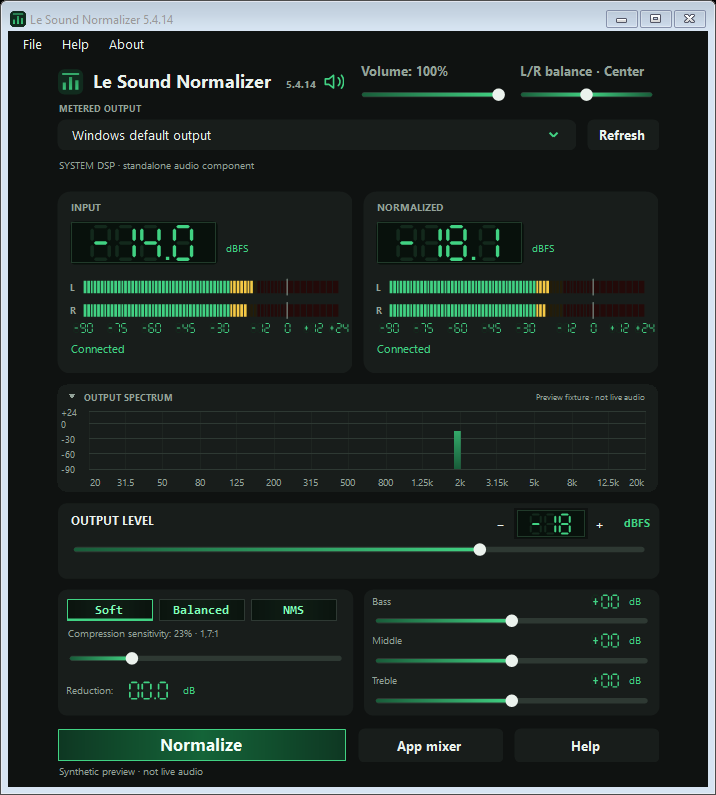
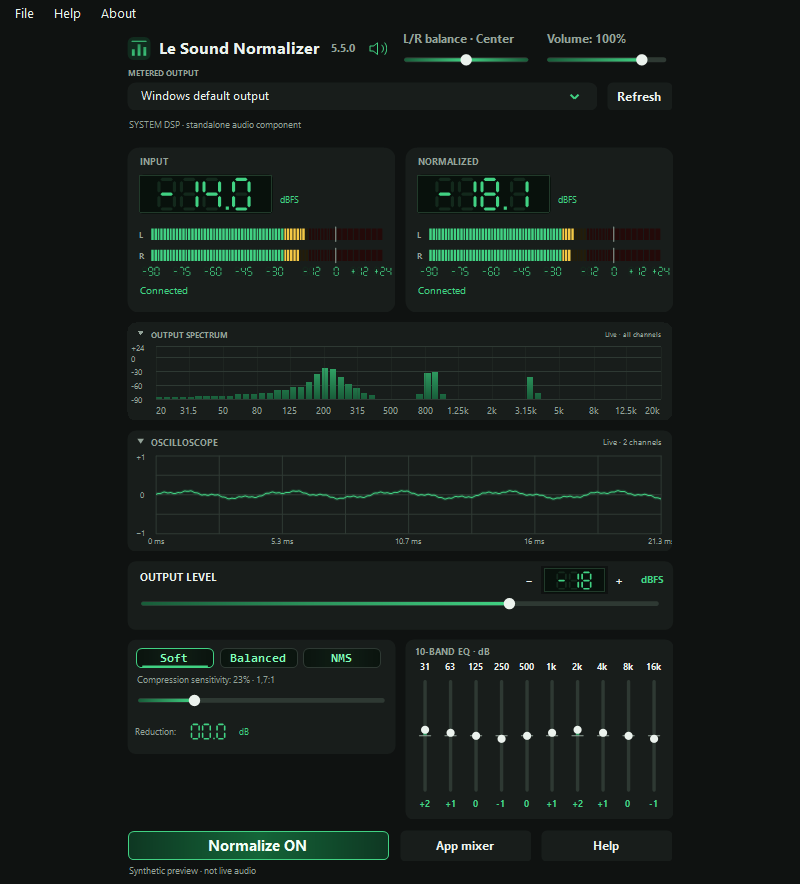
Add ten-band EQ oscilloscope and improved desktop controls

diff --git a/README.md b/README.md
@@ -2,7 +2,7 @@
 
 ![Development dashboard with synthetic signals](images/dashboard-preview.png)
 
-This version 5.4.14 preview uses synthetic signals, not a live playback measurement.
+This version 5.5.0 preview uses synthetic signals, not a live playback measurement.
 
 Normalizes loud scenes for more comfortable listening. Set an output ceiling, then adjust compression sensitivity to reduce the difference between quiet dialogue and loud effects.
 
@@ -31,3 +31,11 @@ The controller is built with C# and Windows Forms; its audio component is C++. T
 Version 5.4.13 fixes meter connection status while muted: connected outputs retain MUTED even when audio blocks stop arriving, while readings clear to the floor.
 
 Version 5.4.14 improves action contrast, enlarges Normalize, unifies application/installer/window icons and delivers the shareable package as a single setup EXE. Existing audio settings are preserved.
+
+## New in 5.5.0
+
+Choose a simple tone panel or a ten-band vertical EQ in Settings > Audio: 31, 63, 125, 250, 500 Hz, 1, 2, 4, 8 and 16 kHz. Each band supports +/-18 dB, and the two views keep their values. A collapsible oscilloscope below the spectrum displays the actual waveform using the same capture source.
+
+The Volume control supports a small preamp boost up to 125% before the limiter while Normalize is ON. L/R balance now sits beside it on the left and snaps to the center. Rounded Normalize ON/OFF controls, silent Help, clear Saved feedback, a single engine chooser, classic option checkboxes and a populated Diagnostics page improve everyday use.
+
+The 5.5.0 candidate has passed isolated native, controller and package tests. Activating an updated system component on an existing machine requires Windows Audio to reload it; local live activation verification is pending approval.
